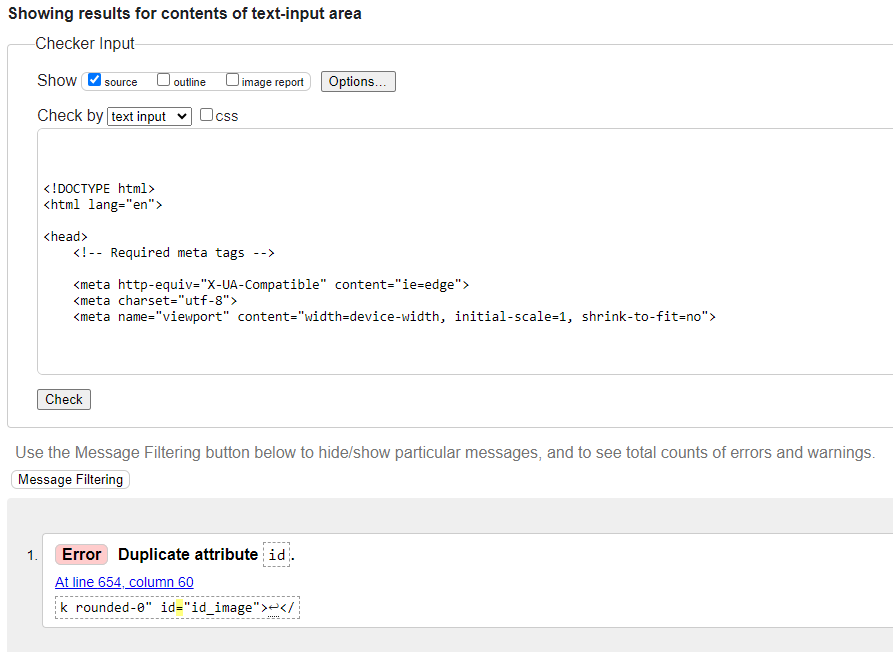
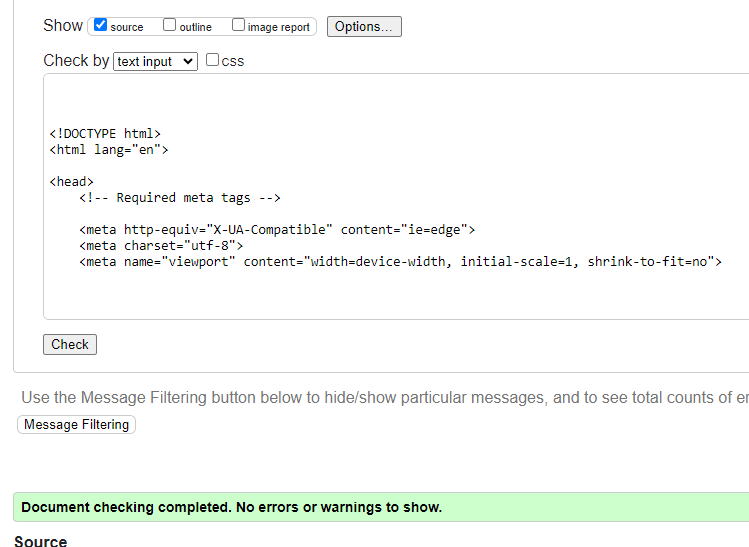
Fix error on bag template

Changed region(s): [[0.0, 0.5594, 1.0, 1.0], [0.0, 0.0, 0.9519, 0.4973]]

diff --git a/bag/templates/bag/bag.html b/bag/templates/bag/bag.html
@@ -43,7 +43,7 @@
                         </tr>
                     </thead>
                     <tr>
-                        <td colspan="5">
+                        <td colspan="4">
                             <hr>
                         </td>
                     </tr>
@@ -72,7 +72,7 @@
                         </td>
                     </tr>
                     <tr>
-                        <td colspan="5">
+                        <td colspan="4">
                             <hr>
                         </td>
                     </tr>

diff --git a/TESTING.md b/TESTING.md
@@ -110,14 +110,14 @@ Page | Screenshot | Notes |
 | --- | --- | --- |
 | **Homepage** | ![screenshot](documentation/testing/validation/val-html-home.png) | Passed. No warnings or errors |
 | **Products page** | ![screenshot](documentation/testing/validation/val-html-products.png) | Passed. No warnings or errors |
-| **Products add page** | ![screenshot](documentation/testing/validation/val-html-products_add.png) | The functionality here is aligned to the walkthrough. I went through the code & tried to locate that but I could not find this "id_name" |
+| **Products add page** | ![screenshot](documentation/testing/validation/val-html-products_add.png) | Passed. No warnings or errors |
 | **Products edit page** | ![screenshot](documentation/testing/validation/val-html-products_edit.png) | Passed. No warnings or errors |
 | **Products delete page** | ![screenshot](documentation/testing/validation/val-html-products_delete.png) | Passed. No warnings or errors |
 | **Products detail page** | ![screenshot](documentation/testing/validation/val-html-products_detail.png) | Passed. No warnings or errors |
 | **Bag page** | ![screenshot](#) | Passed. No warnings or errors |
 | **Checkout page** | ![screenshot](#) | Passed. No warnings or errors |
 | **Checkout success page** | ![screenshot](#) | Passed. No warnings or errors |
-| **Faqs page** | ![screenshot](#) | Passed. No warnings or errors |
+| **Faqs page** | ![screenshot](documentation/testing/validation/val-html-faqs.png) | Passed. No warnings or errors |
 | **Faqs add page** | ![screenshot](documentation/testing/validation/val-html-faqs_add.png) | Passed. No warnings or errors |
 | **Faqs edit page** | ![screenshot](documentation/testing/validation/val-html-faqs_edit.png) | Passed. No warnings or errors |
 | **Faqs delete page** | ![screenshot](documentation/testing/validation/val-html-faqs_delete.png) | Passed. No warnings or errors |
